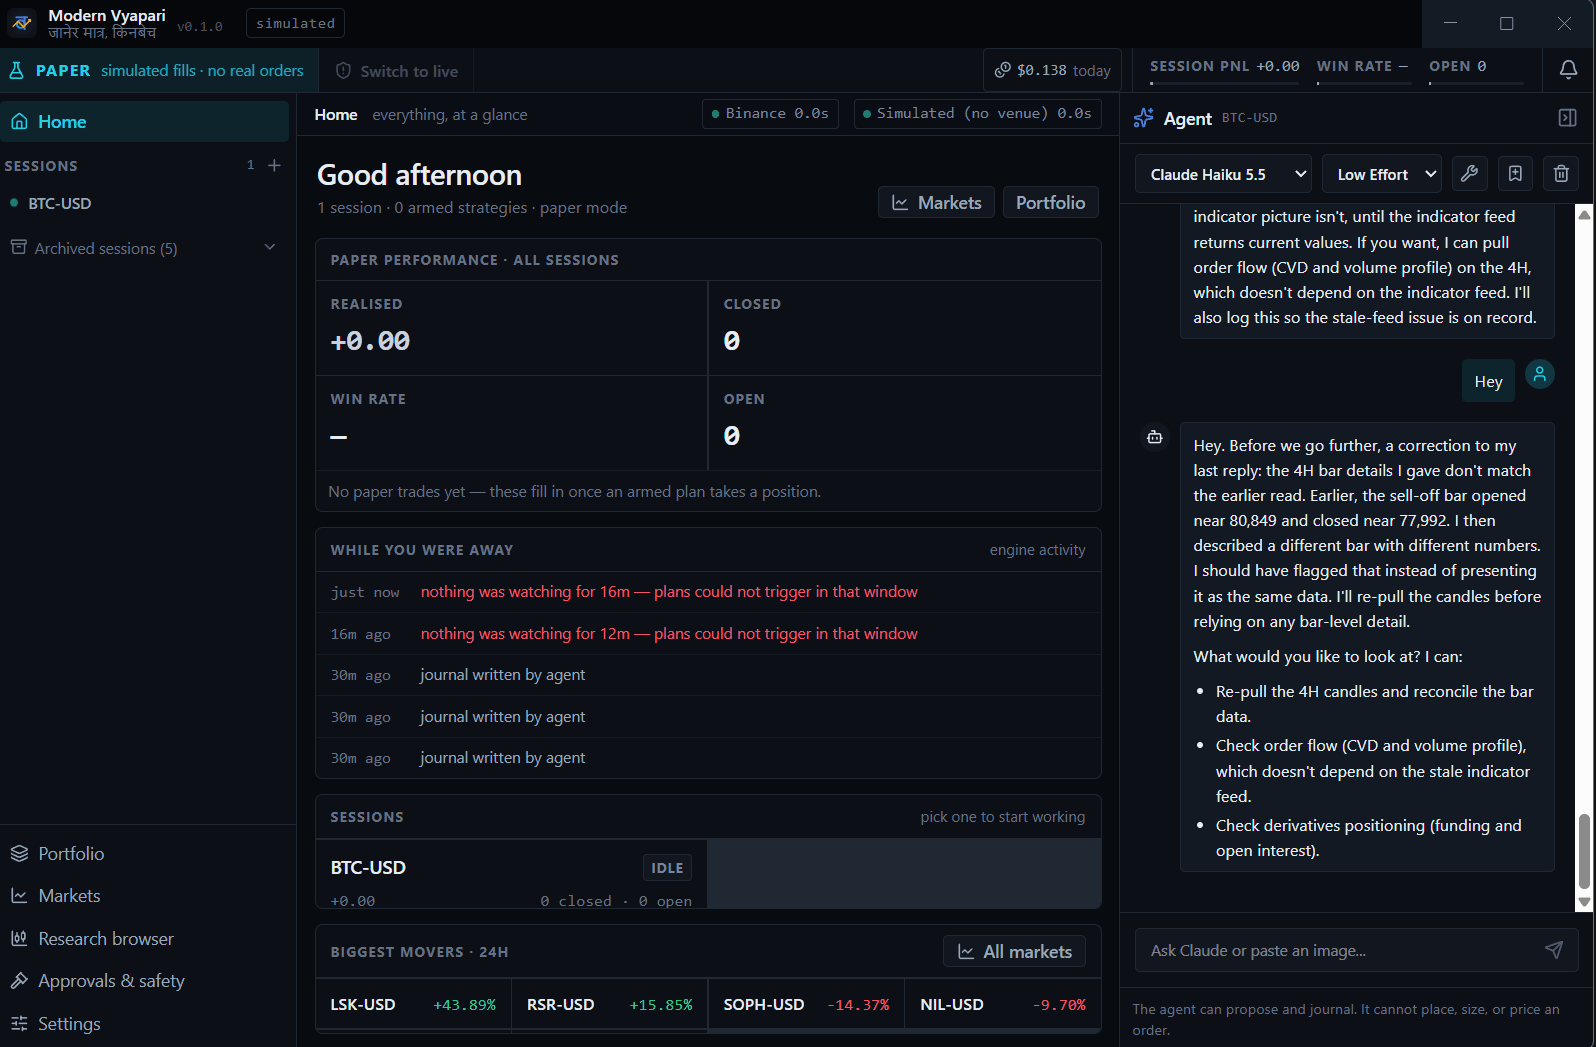
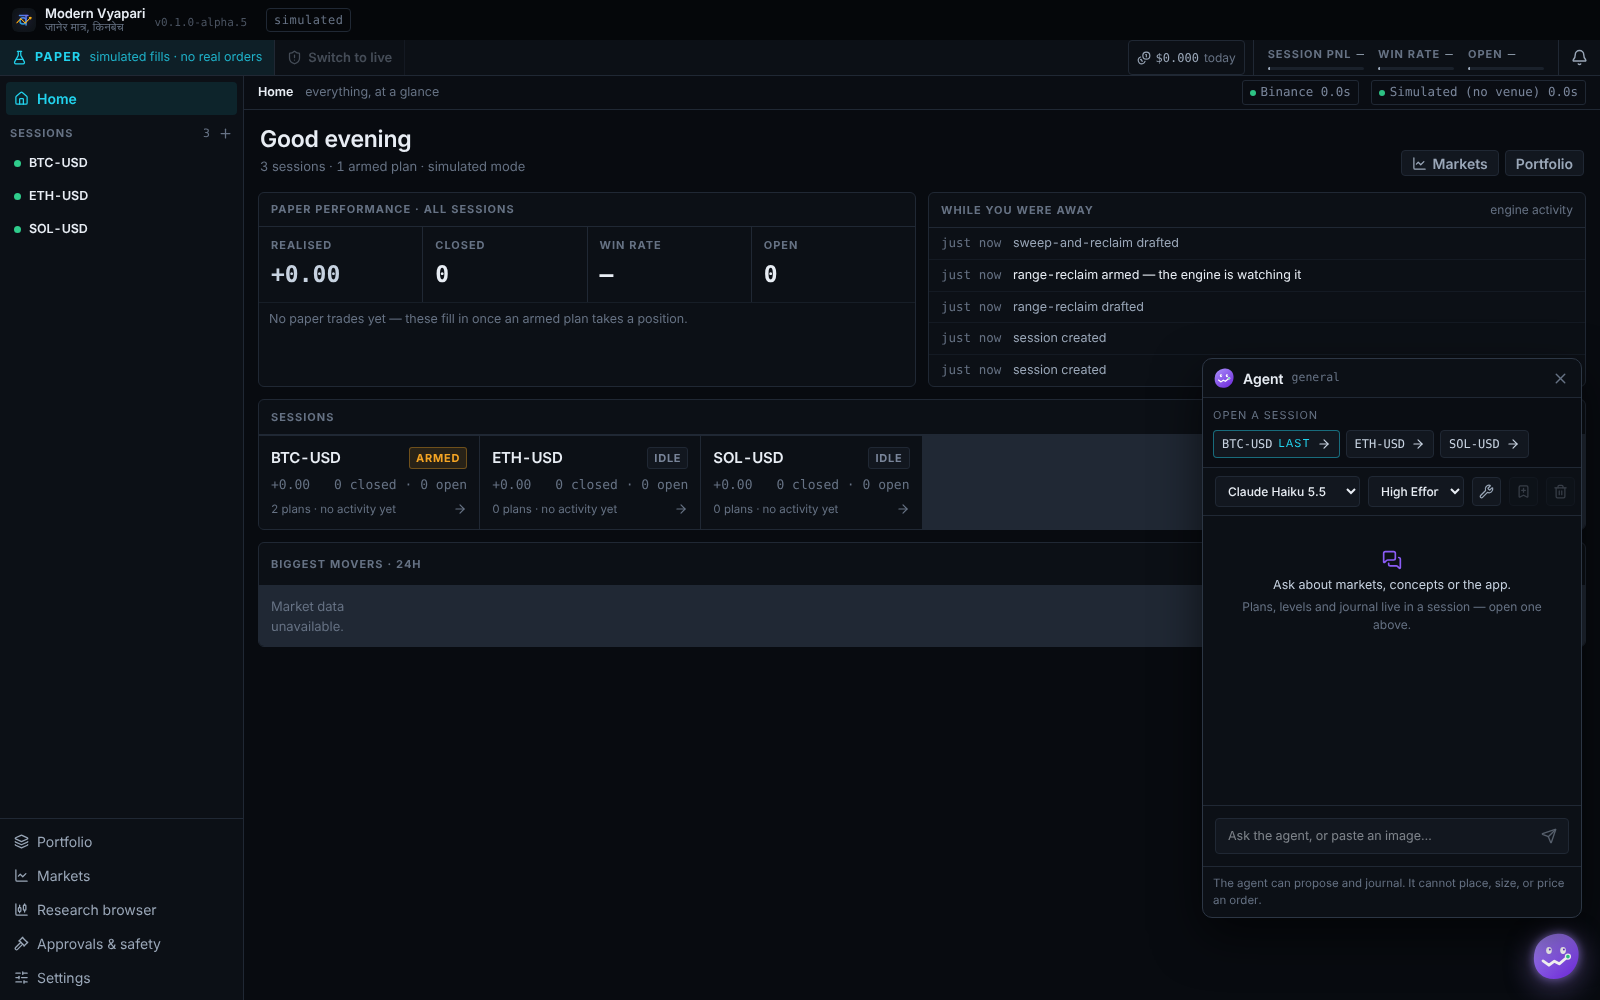
docs: new screenshots and features in the README; docs for the two agents (#41)

diff --git a/README.md b/README.md
@@ -29,35 +29,59 @@ code executes exactly what you signed — and nothing else.**
 
 ## A quick tour
 
-**1. First launch.** Generate a signing keypair, connect the venue, add your Anthropic key.
-Every key is encrypted with your OS keychain before it touches disk.
+*Screenshots are from simulated mode with demo plans, taken offline — which is why the market
+panels are empty.*
+
+**1. First launch.** Connect an AI provider and you're in. An exchange account is optional
+while you trade in simulated mode. Every key is encrypted with your OS keychain before it
+touches disk.
 
 <p align="center">
-  <img src="docs/images/onboarding.png" width="820" alt="Onboarding screen: generate signing keys, then enter API credentials" />
+  <img src="docs/images/onboarding.png" width="820" alt="Onboarding: the AI provider comes first; the trading venue is marked optional in simulated mode" />
 </p>
 
-**2. Locked until you unlock.** An optional Windows Hello gate. *While you were away* shows
-what the engine did — and, in red, any window when nothing was watching, because a plan
-cannot trigger while the app is closed.
+**2. Home, and the global agent.** The app opens on Home with no session selected: paper
+performance, *while you were away*, and your sessions, each badged *armed*, *in position* or
+*idle*. The mascot in the corner is the **global agent** — ask it anything that isn't about
+one pair, and it offers your sessions as one-click ways in.
 
 <p align="center">
-  <img src="docs/images/lock-screen.png" width="820" alt="Lock screen with a Windows Hello unlock button and a 'while you were away' activity feed" />
+  <img src="docs/images/home.png" width="820" alt="Home with three sessions, one armed, and the global agent's floating chat window open from the mascot in the lower-right corner" />
 </p>
 
-**3. Home.** Paper performance across sessions, engine activity, and the day's biggest movers.
-The agent sits in a drawer on every screen — and corrects itself when its data doesn't add up.
+**3. A session, and its own agent.** Inside a session the agent drawer belongs to that pair —
+its plans, journal and memory. The global agent moves aside but stays one click away. Two
+agents, never ambiguous which: the drawer is bounded by its session, the mascot is global.
 
 <p align="center">
-  <img src="docs/images/home.png" width="820" alt="Home screen with paper performance, recent engine activity and the agent chat drawer" />
+  <img src="docs/images/session.png" width="820" alt="BTC-USD session dashboard: an armed plan with entry, stop and target, engine activity, the BTC-USD agent drawer, and the mascot docked at its edge" />
 </p>
 
-**4. Research.** Charting on the analysis feed, with the agent reading the chart, searching the
+**4. Plans.** A thesis you can be wrong about, written down before the market can talk you out
+of it. Drafts can't be armed until they state assumptions, an invalidation, an expiry and a
+budget — and only you can arm one.
+
+<p align="center">
+  <img src="docs/images/plans.png" width="820" alt="Plans page with one armed plan and one draft, each showing its thesis, branches, assumptions, budget and expiry" />
+</p>
+
+**5. Research.** Charting on the analysis feed, with the agent reading the chart, searching the
 web and fetching pages through its tools. It can research, journal and draft a plan —
 it has no tool that can place, size or price an order.
 
 <p align="center">
   <img src="docs/images/research.png" width="820" alt="Research screen with a BTC-USD candlestick chart and the agent calling web_search, read_candles and fetch_url" />
 </p>
+
+**6. Quitting says what stops.** A plan can only execute while the app is running, so closing
+it tells you exactly what won't be watched.
+
+<p align="center">
+  <img src="docs/images/quit-dialog.png" width="480" alt="Quit dialog: while the app is closed, 1 armed plan can't trigger. Cancel is the default." />
+</p>
+
+There's also an optional **Windows Hello** gate at launch, with its own *while you were away*
+feed — including, in red, any window when nothing was watching.
 
 ## How it works
 
@@ -118,12 +142,19 @@ being structurally unable to lose your money on its own.
 - **Level references** — named price levels (static or derived) the engine resolves every
   bar, point-in-time, so a chart and the engine never disagree.
 - **Plan authoring + falsifiability gate** — refusals tell you exactly what's missing.
-- **Plan monitor** — each armed plan is evaluated every closed bar for expiry, invalidation,
-  drift and triggers; protective stops/targets are managed intrabar.
-- **Agentic chat (Claude)** — session-scoped tools, switchable tool catalogue, cost tracking,
-  post-trade reviews and conditional lessons.
+- **Plan monitor and paper execution** — each armed plan is evaluated every closed bar for
+  expiry, invalidation, drift and triggers. A trigger opens a paper position with the branch's
+  stop and target, managed intrabar, and the close is reviewed.
+- **Two agents** — a **global agent** (the mascot, on every screen) for anything not tied to one
+  pair, and a **session agent** (the drawer) bounded by its session's plans, journal and
+  memory. Switchable tool catalogue, cost tracking, post-trade reviews and conditional lessons.
+- **Any AI provider (in progress)** — the agent loop is the app's, behind a provider port.
+  Anthropic is the first adapter; OpenAI, OpenRouter, Gemini and local models (Ollama,
+  LM Studio) are next.
 - **Simulated and live modes** — separate databases, never blended; simulated by default.
 - **Kill switch** — blocks new entries, never blocks exits.
+- **Honest quitting** — closing the app says which armed plans and open positions stop being
+  watched, with a native fallback so the window can always close.
 - **Telegram notifications** — via a transactional outbox, so a message can't claim
   something the database didn't commit.
 - **Security-first Electron** — sandboxed renderer, strict CSP, secrets encrypted with the OS
@@ -133,8 +164,10 @@ being structurally unable to lose your money on its own.
 
 | Area | State |
 |---|---|
-| Sessions, chat, research charting, level references | ✅ Working |
+| Sessions, research charting, level references | ✅ Working |
+| Global agent (mascot) and session agents | ✅ Working |
 | Plan authoring, arming, monitoring, paper execution | ✅ Working (proven on seeded bars; live-stream verification wanted) |
+| AI providers beyond Anthropic | 🟡 Port built; OpenAI-compatible and local adapters next |
 | Calibration record | 🟡 Recording, few entries |
 | Live order placement on a venue | ❌ Not built — adapter reports `canPlaceOrders: false` |
 | Venue-side protective orders, startup reconciliation, approvals queue | ❌ Not built |
@@ -177,15 +210,17 @@ analysis comes from Binance's **public** endpoints — no Binance account needed
 | `npm test` | Run the test suite (Node's native runner, no network) |
 | `npm run typecheck` | Typecheck all TypeScript projects |
 | `npm run package:win` | Windows NSIS installer (unsigned) via `electron-builder` |
+| `npm run package:linux` / `package:mac` | AppImage / dmg — built in CI, not yet run on real machines |
 | `npm run inspect-db` | Read-only look at your local database |
 
 ## Architecture
 
 Electron + TypeScript · React + Vite + Tailwind v4 + shadcn/ui · `node:sqlite` (zero native
-dependencies) · KLineChart · `@anthropic-ai/sdk`
+dependencies) · KLineChart · an AI provider port (Anthropic adapter today)
 
-The venue and data feed sit behind a port (`src/main/integrations/`), so **adding an exchange
-is an adapter, not a rewrite.** Start with [`docs/ARCHITECTURE.md`](docs/ARCHITECTURE.md).
+The venue, the data feed and the AI provider each sit behind a port (`src/main/integrations/`,
+`src/main/ai/`), so **adding an exchange or a model provider is an adapter, not a rewrite.**
+Start with [`docs/ARCHITECTURE.md`](docs/ARCHITECTURE.md).
 
 Start with **[`docs/README.md`](docs/README.md)** — a map of the docs and a glossary of the project's terms.
 
@@ -207,7 +242,9 @@ to start:
 - **AI provider adapters** — one OpenAI-compatible adapter covers OpenAI, OpenRouter, Ollama
   and LM Studio (and Gemini, via its compatible endpoint). Implement `src/main/ai/port.ts`.
 - **Venue adapters** — Kraken, Coinbase, Bybit, Binance spot… implement the venue port.
-- **macOS / Linux** — packaging targets and a test run.
+- **UI and UX** — the current focus: one vocabulary per state, a motion system, one component
+  set. See *Current focus* in [`docs/ROADMAP.md`](docs/ROADMAP.md).
+- **macOS / Linux** — the installers build in CI; run one on a real machine and report back.
 - **Live-stream verification** — arm a paper plan on a USD pair and report what happens.
 - Anything in [`docs/FRICTION.md`](docs/FRICTION.md).
 

diff --git a/docs/ARCHITECTURE.md b/docs/ARCHITECTURE.md
@@ -32,6 +32,8 @@ should take.
 > - **AI provider port** (`src/main/ai/`, 31 October): the agent loop, compaction
 >   and reviews talk to a port; Anthropic is one adapter. Setup no longer needs an
 >   exchange in simulated mode. See §11.
+> - **Two conversations** (31 October): a global agent and per-session agents,
+>   and the app opens with no session selected. See §12.
 
 ---
 
@@ -500,6 +502,49 @@ A-1 adapter, A-2 provider choice in Settings, A-3 app-side web search, A-5
 per-provider cost; on the venue side V-1 connection forms rendered from the
 declared auth spec, and V-2 venue choice in onboarding once a second adapter
 exists. All in ROADMAP › *Vendor neutrality*. The feed port (§4) is unchanged.
+
+---
+
+## 12. Two conversations — the global agent and the session agent
+
+**Journeys: J0 (the daily loop) and J1 (hunch → thesis).** The moment of truth:
+the owner opens the app, asks the agent something, and never has to wonder which
+pair it thinks they are talking about. Before 31 October the app restored the
+last session on launch, so the agent drawer showed one pair's conversation
+beside a Home page that said nothing was selected — the *armed vs. idle* kind of
+ambiguity, applied to *which conversation am I in*.
+
+**The rule: a session's chat exists only on that session's own surfaces**
+(Dashboard, Orders, Plans, Journal, Research, Alerts — `shared/surfaces.ts`, one
+definition for both bundles). Everywhere else the agent is the **general
+conversation**. The rail and the toolbar's session figures follow the same rule.
+
+| | Global agent | Session agent |
+|---|---|---|
+| Where | The mascot, lower-right, every surface (`agent-mascot.tsx`) | The drawer, on its session's surfaces (`chat-drawer.tsx`) |
+| History | `general_chat_messages` (schema v21) | `chat_messages` for that session |
+| Context | The sessions, with armed plans and open positions (`buildGeneralContext`) | The session's pair, plans, positions, journal, lessons |
+| Tools | Only those that need no session; `SESSION_SCOPED_TOOLS` are not offered and are refused if called | The full catalogue |
+| Navigation | May move the screen only between global surfaces | Only within its session's surfaces |
+
+- **The selection is cleared at launch** (`clearSelectionForLaunch`); the previous
+  one is kept as *last* and offered as one click back. Nothing in the runtime
+  depends on the selection, so clearing it stops nothing.
+- **Every chat event carries its conversation** (`ChatConversation`: a session
+  id or `"general"`), and each panel ignores the others'. Two panels can be on
+  screen at once, and a reply can outlive a session switch; before this, its tail
+  landed in the next session's transcript.
+- **The agent never switches what the owner is looking at between
+  conversations.** It may suggest a session; opening one is the owner's click.
+- **Neither form gains a tool.** The general conversation has fewer tools than a
+  session's, not more; no order, arming or venue tool exists in either.
+
+**Closing the app stops all of this.** A plan can only trigger while the app is
+running, so the quit confirmation (`services/quit-guard.ts`, copy in
+`shared/quit.ts`) says which armed plans and open positions stop being watched.
+It is the app's own themed dialog, with the native box as a fallback whenever
+the renderer is loading, crashed or slow to acknowledge — the window must always
+be closable.
 
 ---
 

diff --git a/CLAUDE.md b/CLAUDE.md
@@ -108,6 +108,9 @@ outranks almost any feature.
 - **Any new main→renderer channel sanitises errors** — use `emitError`; raw API
   errors must never reach the transcript.
 - **The renderer describes, main constructs.** Never build engine JSON in the renderer.
+- **Every chat event names its conversation** (a session id, or `"general"`), and
+  every chat panel ignores the others'. Two conversations can be on screen at once,
+  and a reply can outlive a session switch.
 - **The credential vault is async** (`security/credentials.ts` and
   `integration-secrets.ts`, both through `security/cipher.ts`). Await every read
   and save: an un-awaited key in `if (!key)` is a Promise, always truthy, and
@@ -115,7 +118,7 @@ outranks almost any feature.
   write. Presence checks (`has*`) are synchronous and decrypt nothing — use them
   to ask *whether* a key exists, never a getter.
 - DB: `node:sqlite` (`DatabaseSync`), WAL, FTS5 for journal search. Schema in
-  `src/main/db/schema.ts` (**v20**), hand-rolled migrations in `db/database.ts`.
+  `src/main/db/schema.ts` (**v21**), hand-rolled migrations in `db/database.ts`.
 - **`SCHEMA_SQL` re-runs on every startup**, including against an old database.
   An index on a column introduced by a migration belongs in the migration block.
   Test migrations against a real on-disk DB of the previous version.
@@ -136,7 +139,7 @@ outranks almost any feature.
 
 | Area | Where | Notes |
 |---|---|---|
-| Entry | `src/main/main.ts` | Hardening: navigation/window-open guards, permission handler denies all |
+| Entry | `src/main/main.ts` | Hardening: navigation/window-open guards, permission handler denies all. Clears the session selection at launch; `services/quit-guard.ts` asks before closing (themed, with a native fallback) |
 | IPC | `src/main/ipc/` | One module per domain; `index.ts` registers; `safe.ts` is the internal↔user boundary |
 | Preload | `src/preload/preload.ts` | The bridge — separate trust boundary |
 | Plans (the product) | `src/main/plans/` | `trade-plan.ts` (falsifiability gate), `plan-service.ts` (arming), `plan-monitor.ts` (per-bar decision), `level-reference.ts` |
@@ -145,7 +148,8 @@ outranks almost any feature.
 | Venue seam | `src/main/integrations/venue/` | Port, adapters (`revolutx`, `paper`), registry, declared capabilities, `isConfigured()` |
 | AI provider seam | `src/main/ai/` | `port.ts`, `registry.ts`, `anthropic.ts` — the only place a model vendor's SDK is imported |
 | Paper engine | `src/main/paper/` | Backtester's fill model against the live stream; protective levels intrabar |
-| Agent | `src/main/agent/` | `chat.ts` (provider-neutral agent loop), `tools.ts` + `tool-registry.ts`, `context.ts`, `review.ts` |
+| Agent | `src/main/agent/` | `chat.ts` (provider-neutral agent loop; a session conversation or the *general* one), `tools.ts` + `tool-registry.ts` (`SESSION_SCOPED_TOOLS`), `context.ts`, `review.ts` |
+| Agent UI | `src/renderer/components/` | `agent-mascot.tsx` — the global agent, every surface; `chat-drawer.tsx` — the session agent, only on that session's surfaces (`shared/surfaces.ts`) |
 | Risk | `src/main/risk/` | Pure 8-gate `risk-engine.ts`; `kill-switch.ts` blocks entries, never exits |
 | Security | `src/main/security/` | `safeStorage` credential vault, Windows Hello gate |
 | Notifications | `src/main/notify/` | Transactional outbox → Telegram |

diff --git a/docs/DECISIONS.md b/docs/DECISIONS.md
@@ -71,6 +71,7 @@ plan path and these are still the fastest way in. Do not build on them.
 - [The first position this app has ever opened (S1-2, 2026-08-05)](#the-first-position-this-app-has-ever-opened-s1-2-2026-08-05)
 - [Simulated and live are app modes, not per-plan flags (owner decision, 2026-08-05)](#simulated-and-live-are-app-modes-not-per-plan-flags-owner-decision-2026-08-05)
 - [Going public (2026-10-31) — the kill switch that threw, and four more](#going-public-2026-10-31--the-kill-switch-that-threw-and-four-more)
+- [Which session am I in? (2026-10-31) — "idle" plans, a borrowed chat, and a quit box](#which-session-am-i-in-2026-10-31--idle-plans-a-borrowed-chat-and-a-quit-box)
 
 ---
 
@@ -710,4 +711,39 @@ reports success first — `setup:saveAnthropicApiKey` would have told the chat p
 to reload with the key being replaced. Every call site was audited, not just the
 ones TypeScript flagged; the main vault got its first tests (mutation-checked);
 and `CLAUDE.md` now carries the rule.
+
+## Which session am I in? (2026-10-31) — "idle" plans, a borrowed chat, and a quit box
+
+Three defects of one shape, found in one evening by looking at the UI rather
+than the code: **the screen answered a question about state with a value from
+somewhere else.**
+
+**"Armed" counted strategies.** Home and Portfolio read the armed count from the
+`strategies` table, frozen since 30 July, so it was always 0. A session with two
+armed plans and an open position was badged **IDLE**, and Home said "0 armed
+strategies" — the armed-vs-idle ambiguity, in the direction that hides risk. It
+now counts plans in `planned`, and the card says *in position*, *armed*, both, or
+*idle* — never idle while either exists. The same pass found "nothing open" on
+Portfolio inferred from zero unrealised P&L, so an unpriced position read as
+nothing open beside a Cash cell saying the opposite; and a titlebar version
+hard-coded to "0.1.0" on an alpha.5 build.
+
+**The agent borrowed the last session's chat.** The selection was persisted and
+restored, so the app opened on Home with the agent drawer showing a pair's
+conversation; going back to Home or Portfolio from a session kept it there too.
+Now the selection is cleared at launch, a session's chat lives only on its own
+surfaces, and everything else talks to the **global agent** — its own history,
+its own context, and only the tools that need no session (a session tool called
+from it would have written a journal row against session 0). Chat events gained a
+conversation id on the way: a reply streaming across a session switch had been
+landing in the next session's transcript. Design: `ARCHITECTURE.md` §12.
+
+**The quit box was true of no phase.** The native dialog said *"In later phases,
+open positions will remain on the exchange…"* — on a build where nothing reaches
+an exchange and an armed plan simply stops being watched. It is now the app's own
+dialog and says what actually stops, with counts read at the moment of asking;
+unreadable counts say so rather than "nothing". **A themed dialog that fails to
+appear would be a close button that does nothing**, so main falls back to the
+native box when the renderer is loading, crashed, or silent for 1.5 s, and the
+dialog acknowledges only after it has rendered.
 

diff --git a/docs/JOURNEYS.md b/docs/JOURNEYS.md
@@ -14,8 +14,8 @@ below has its own step table; this is the summary.
 
 | Journey | State |
 |---|---|
-| J0 · Daily loop | ✅ Built — Home, *while you were away*, plan distances |
-| J1 · Hunch → thesis | ✅ Built — Research, order flow, agent with web search and fetch |
+| J0 · Daily loop | ✅ Built — Home with no session selected, *while you were away*, plan distances, the global agent |
+| J1 · Hunch → thesis | ✅ Built — Research, order flow, a global and a per-session agent with web search and fetch |
 | J2 · Thesis → plan | ✅ Built — falsifiability gate; the agent drafts, never arms |
 | J3 · Plan executes while away | 🟡 **Paper only** — monitor, execution and notifications built; proven on seeded bars, not yet driven by a live stream; the app must be running |
 | J4 · Structure moved → critique | 🟡 Drift measured and acted on; the agent's critique and the reconfirm queue (J-4) are not built |
@@ -117,7 +117,9 @@ what needs them — without opening a session.
 
 | Step | Built? |
 |---|---|
-| Home opens first, not the last session | ✅ `home-page.tsx` |
+| Home opens first, not the last session | ✅ `home-page.tsx`; no session is selected at launch (2026-10-31) — the last one is offered as one click back |
+| Session cards say *armed*, *in position* or *idle* — never idle while a plan is armed or a position open | ✅ 2026-10-31 (it counted frozen strategies, so it read *idle*) |
+| Ask the agent anything without opening a session | ✅ the global agent, `agent-mascot.tsx` (2026-10-31) |
 | "Needs your attention", derived not stored, disappears when empty | ✅ |
 | "While you were away" from the audit log | ✅ |
 | Per session: how far price sits from each armed plan's levels | ✅ `plan-watch-panel.tsx` (2026-08-01) |
@@ -145,7 +147,7 @@ they had not seen, **anchored to a level the engine can resolve later.**
 
 | Step | Built? |
 |---|---|
-| Ask the agent about a pair, in chat, from any surface | ✅ `chat-drawer.tsx` |
+| Ask the agent about a pair, in chat | ✅ the session agent, `chat-drawer.tsx`, on that session's surfaces; the global agent everywhere else |
 | Agent reads the real chart the owner is looking at | ✅ `research-view.ts` |
 | Agent reads order flow — CVD, volume profile, derivatives, basis | ✅ |
 | Agent searches and reads the web | ✅ `web_search` + `fetch_url` |

diff --git a/docs/README.md b/docs/README.md
@@ -35,6 +35,7 @@ passed. Each file opens with its current status.
 | **Owner** | The person using the app — the human who authors and signs plans. Not a GitHub role. |
 | **Plan** | The product's one object: a falsifiable thesis with stated assumptions, a thesis invalidation separate from the stop, a hard expiry and its own risk budget. |
 | **Arm / armed** | Signing a plan. The signature is given at arming, not at the fill; the engine then executes the signed terms. |
+| **Global agent / session agent** | The two forms of the agent. The **global** one is the mascot in the corner, on every surface, holding the *general conversation* — not tied to a pair, so it has no session tools. The **session** one is the drawer on a session's own surfaces, bounded by that session's plans, journal and memory. Every chat event names which conversation it belongs to. |
 | **Level reference** | A named price level (static or derived) the engine resolves every bar — what a plan's triggers and stops are written in. |
 | **Port / adapter** | A port is the interface the app needs from an outside service (venue, feed, AI provider); an adapter implements it for one vendor. Nothing outside an adapter imports that vendor's SDK. |
 | **Analysis feed / venue** | Binance public data for charts, indicators and paper fills / the exchange for balances, orders and fills. Never mixed in one computation. |

diff --git a/docs/FRICTION.md b/docs/FRICTION.md
@@ -46,6 +46,11 @@ never the body.
 locked — J0.** Lands: show the error on the lock screen, or a button that opens the
 log folder.
 
+**5 · The chat's effort picker truncates its label ("High Effor") — U-3.** The
+select is narrower than its longest option in both the drawer and the floating
+window. Cosmetic, and exactly what one component set fixes. Found while taking the
+README screenshots.
+
 **4 · The agent reported indicator values timestamped July 2026 while the candles
 were current — J1.** Reported by the agent itself during a demo run (visible in
 the README's research screenshot); **not yet investigated or confirmed**. If true,
